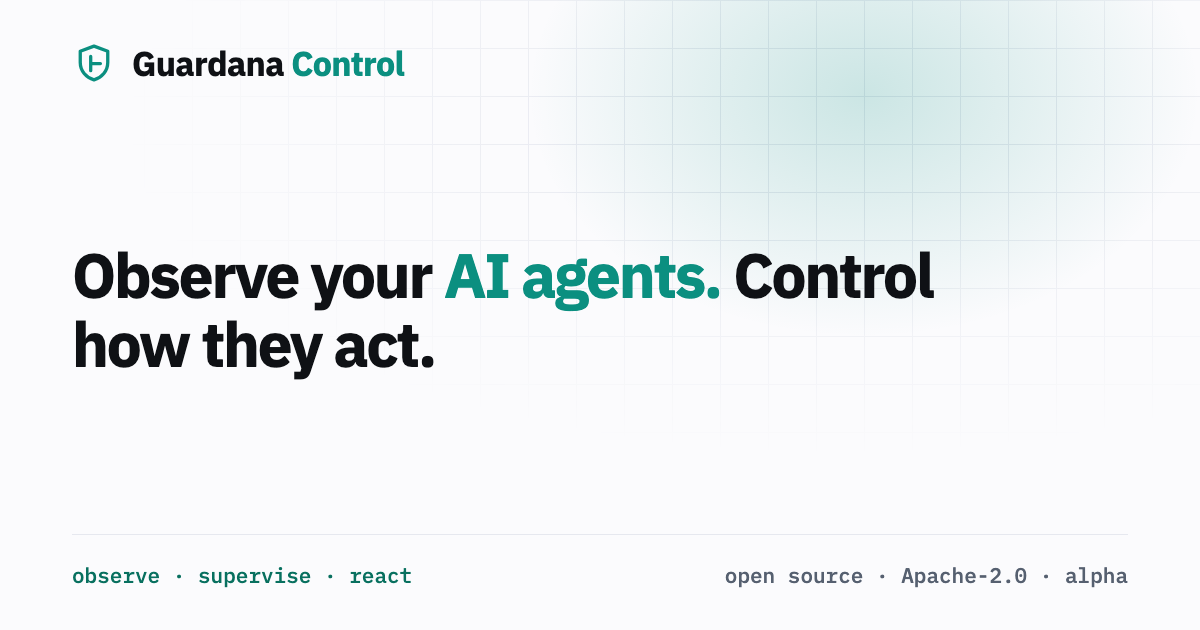
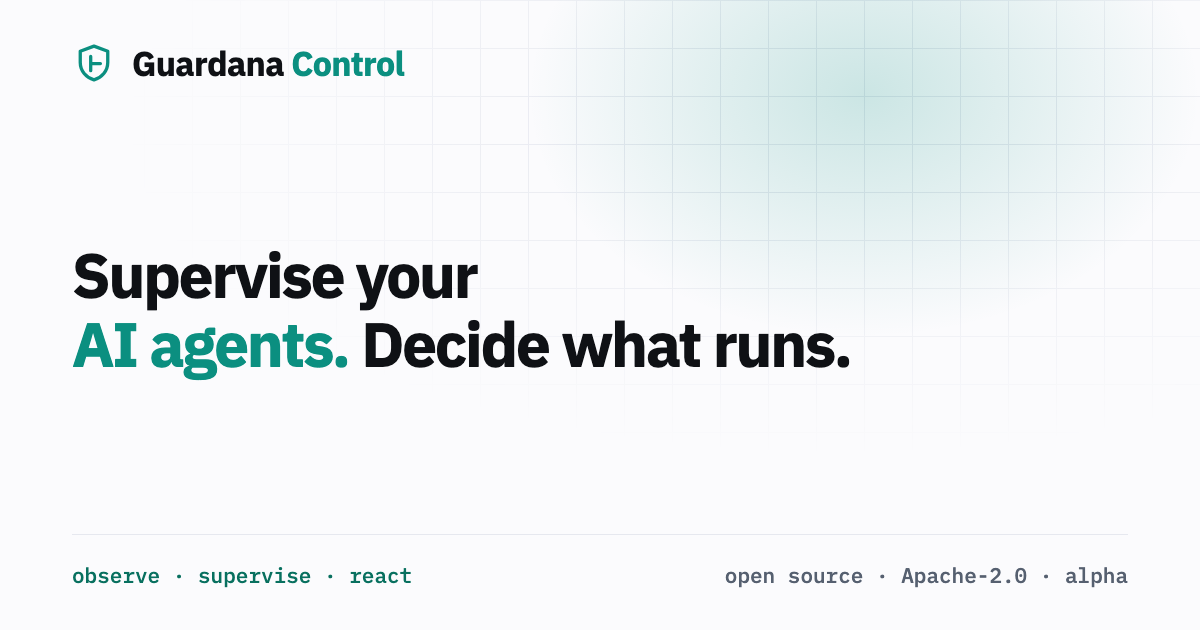
docs: the project names itself an AI agent supervision framework (#8)
The hero becomes "Supervise your AI agents. Decide what runs.", one of
two lines the maintainer accepted. "Decide" is true on the paths a
cooperating client serves too, where "control" promised more than a plane
that hands a decision over can keep. One category phrase now stands in the
README's subline, the page title, the descriptions and the repository's
description, so a search or an assistant meets the same words everywhere.

The README leads with what can be done today, the demo first, and puts
the 1.0 goal after it; the sections are moved, not rewritten. The page
title carried the name alone. The repository's topic runtime-security goes,
since the project says it is no security boundary, and agent-supervision
comes. The social card is rendered again from scripts/og-card.html.

The repository description and topics are declared here and applied by the
maintainer's bootstrap; the card is uploaded to GitHub by hand.

Changed region(s): [[0.0617, 0.3921, 0.8017, 0.6032], [0.0617, 0.3921, 0.1542, 0.4825]]

diff --git a/site/index.html b/site/index.html
@@ -3,11 +3,11 @@
 <head>
 <meta charset="utf-8"/>
 <meta name="viewport" content="width=device-width, initial-scale=1"/>
-<title>Guardana Control</title>
-<meta name="description" content="Observe AI agent runs and control consequential actions. Signed policies, AuthZEN API vetoes and evidence today; observation across connected channels and scoped reactions towards 1.0."/>
+<title>Guardana Control | AI Agent Supervision Framework</title>
+<meta name="description" content="Open-source AI agent supervision framework for policy decisions, approvals and procedure checks on connected actions. Alpha; not a security boundary."/>
 <link rel="canonical" href="https://control.guardana.dev/"/>
-<meta property="og:title" content="Guardana Control"/>
-<meta property="og:description" content="Observe AI agent runs and control consequential actions. Signed policies, AuthZEN API vetoes and evidence today; observation across connected channels and scoped reactions towards 1.0."/>
+<meta property="og:title" content="Guardana Control | AI Agent Supervision Framework"/>
+<meta property="og:description" content="Open-source AI agent supervision framework for policy decisions, approvals and procedure checks on connected actions. Alpha; not a security boundary."/>
 <meta property="og:type" content="website"/>
 <meta property="og:site_name" content="Guardana Control"/>
 <meta property="og:url" content="https://control.guardana.dev/"/>
@@ -15,7 +15,7 @@
 <meta property="og:image:type" content="image/png"/>
 <meta property="og:image:width" content="1200"/>
 <meta property="og:image:height" content="630"/>
-<meta property="og:image:alt" content="Guardana Control. Observe your AI agents. Control how they act."/>
+<meta property="og:image:alt" content="Guardana Control. Supervise your AI agents. Decide what runs."/>
 <meta name="twitter:card" content="summary_large_image"/>
 <meta name="twitter:image" content="https://control.guardana.dev/og.png"/>
 <meta name="theme-color" content="#0B8F80"/>
@@ -39,8 +39,8 @@
 <main id="main">
 <section class="hero"><div class="wrap hero-inner">
   <p class="pill"><i></i>Open source · Experimental alpha</p>
-  <h1 class="tagline">Observe your <span class="accent">AI agents.</span> Control how they act.</h1>
-  <p class="sub">See what an agent did, whether it followed its procedure, and where you can intervene. Start with the alpha; explore connected observation and reaction in the 1.0 goal.</p>
+  <h1 class="tagline">Supervise your <span class="accent">AI agents.</span> Decide what runs.</h1>
+  <p class="sub">An open-source AI agent supervision framework that checks recorded runs against procedures and uses policy to decide connected actions. Start with the alpha; explore connected observation and reaction in the 1.0 goal.</p>
   <p class="warn">Today: an <code class="st" data-status="Model Context Protocol (MCP) gateway">experimental</code> MCP gateway, signed policies, AuthZEN API vetoes, an Enforcement API for your own tools, runtime trace imports and supervision you invoke for one run. Caller identity is configured, and coverage has gaps. <strong>Do not deploy this as a security boundary.</strong></p>
   <div class="ctas">
     <a class="btn pri" href="/docs/get-started/try-the-demo">Run the local demo</a>

diff --git a/scripts/og-card.html b/scripts/og-card.html
@@ -25,7 +25,7 @@ body::after{content:"";position:absolute;right:-12%;top:-40%;width:80%;height:11
 <body>
 <div class="card">
   <div class="mark"><svg viewBox="0 0 24 24" aria-hidden="true" fill="none" stroke="currentColor" stroke-width="1.8" stroke-linecap="round" stroke-linejoin="round"><path d="M12 2.8 4.5 5.6v6.1c0 4.6 3.2 8.2 7.5 9.5 4.3-1.3 7.5-4.9 7.5-9.5V5.6z"/><path d="M10.2 8.4v7.8M10.2 12.3h5.3"/></svg><span>Guardana <b>Control</b></span></div>
-  <p class="tagline">Observe your <span>AI agents.</span> Control how they act.</p>
+  <p class="tagline">Supervise your <span>AI agents.</span> Decide what runs.</p>
   <div class="foot"><span class="verbs">observe · supervise · react</span><span>open source · Apache-2.0 · alpha</span></div>
 </div>
 </body>

diff --git a/README.md b/README.md
@@ -2,9 +2,9 @@
 
 # <img src="site/assets/control/mark.svg" height="30" alt=""> Guardana Control
 
-**Observe your AI agents. Control how they act.**
+**Supervise your AI agents. Decide what runs.**
 
-See what an agent did, check its procedure, and react within your authority.
+An open-source AI agent supervision framework that checks recorded runs against procedures and uses policy to decide connected actions.
 
 [![CI](https://github.com/guardana/control/actions/workflows/ci.yml/badge.svg)](https://github.com/guardana/control/actions/workflows/ci.yml)
 [![Security](https://github.com/guardana/control/actions/workflows/security.yml/badge.svg)](https://github.com/guardana/control/actions/workflows/security.yml)
@@ -18,23 +18,6 @@ See what an agent did, check its procedure, and react within your authority.
 [Website](https://control.guardana.dev) · [Try the demo](docs/get-started/try-the-demo.md) · [Docs](docs/index.md) · [Status](docs/status.md) · [Roadmap](ROADMAP.md) · [Contributing](CONTRIBUTING.md) · [Security](SECURITY.md)
 
 </div>
-
-## The 1.0 goal: observe, supervise, react
-
-Guardana Control is a control and supervision layer for AI agents. Its 1.0
-goal is `planned` ([roadmap](ROADMAP.md)):
-
-- **Observe** actions and outcomes across connected tools, APIs, runtimes,
-  network and process sources. State each path's coverage, source trust and gaps.
-- **Supervise** runs against procedures and permissions. Report deviations,
-  denied actions tried another way, skipped work and uncertain outcomes.
-- **React** within scoped authority: inform, alert, request review, hold an
-  exact action for approval, pause calls or stop further actions.
-
-Full observation means coverage of connected paths with unknowns visible.
-It does not mean every action is visible or controllable. Sensors report;
-enforcement points decide before effects. Read
-[the product model](docs/concepts/control-and-supervision.md).
 
 ## Try the alpha
 
@@ -62,6 +45,23 @@ boundary. [Status](docs/status.md) is the inventory of what exists.
 
 Supervision and reaction run when you invoke them. A stop does not interrupt
 an operation already running. Paths around the gateway stay outside its control.
+
+## The 1.0 goal: observe, supervise, react
+
+Guardana Control is a control and supervision layer for AI agents. Its 1.0
+goal is `planned` ([roadmap](ROADMAP.md)):
+
+- **Observe** actions and outcomes across connected tools, APIs, runtimes,
+  network and process sources. State each path's coverage, source trust and gaps.
+- **Supervise** runs against procedures and permissions. Report deviations,
+  denied actions tried another way, skipped work and uncertain outcomes.
+- **React** within scoped authority: inform, alert, request review, hold an
+  exact action for approval, pause calls or stop further actions.
+
+Full observation means coverage of connected paths with unknowns visible.
+It does not mean every action is visible or controllable. Sensors report;
+enforcement points decide before effects. Read
+[the product model](docs/concepts/control-and-supervision.md).
 
 ## How a call is decided
 
